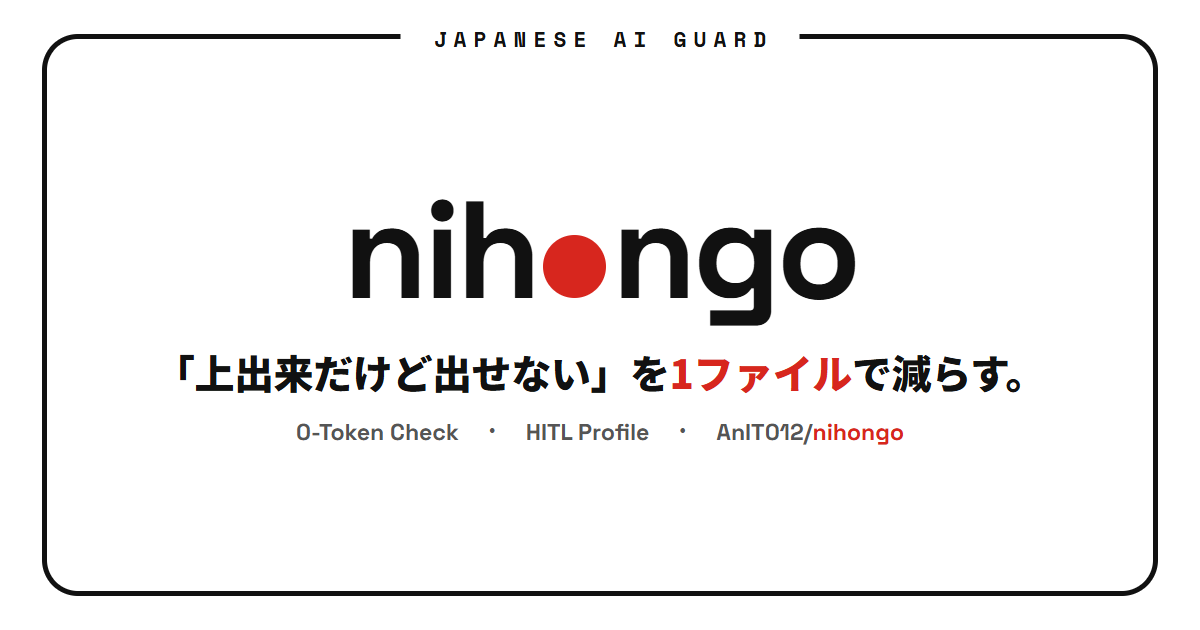
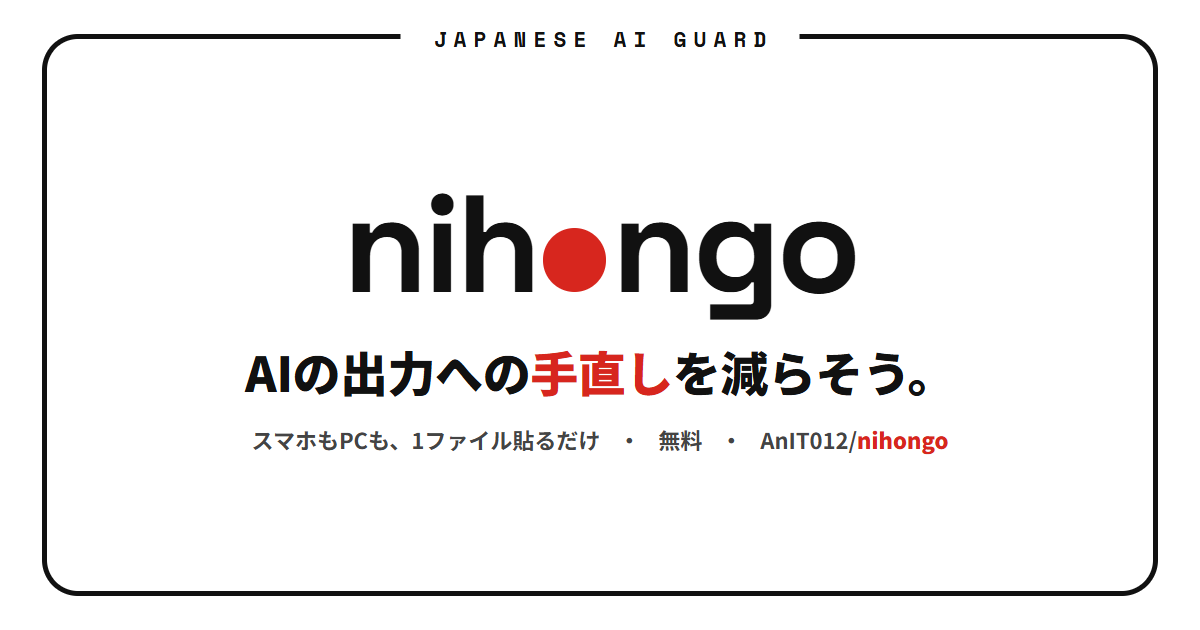
copy(site): update hero and OGP headline to natural Japanese copy

diff --git a/docs/index.html b/docs/index.html
@@ -7,7 +7,7 @@
 <meta name="description" content="AIの文章から「上出来だけど、そのままでは出せない」違和感を減らし、会話で直した癖を自分のルールとして残せる日本語ガード基盤。運営側サーバーにデータは保存しません。">
 <meta property="og:type" content="website">
 <meta property="og:title" content="nihongo — AI編集のための日本語ガード">
-<meta property="og:description" content="0トークンの意味ズレ検査、承認UIで育つ個人ルール、1ファイル導入。外部依存ゼロ・運営データ保存ゼロのオープンソース基盤。">
+<meta property="og:description" content="AIの出力への手直しを減らす日本語ガード。スマホもPCも1ファイル貼るだけで導入でき、外部依存ゼロ・運営データ保存ゼロで動作します。">
 <meta property="og:image" content="https://anit012.github.io/nihongo/ogp.png">
 <meta name="twitter:card" content="summary_large_image">
 <meta name="twitter:image" content="https://anit012.github.io/nihongo/ogp.png">
@@ -748,7 +748,7 @@ footer code b { color: var(--red); }
     <section class="hero-frame" aria-label="nihongo 概要">
       <div class="cut">JAPANESE AI GUARD</div>
       <div class="hero-logo" aria-hidden="true">nih<i></i>ngo</div>
-      <h1 class="hero-title">「上出来だけど出せない」を<span>1ファイル</span>で減らす。</h1>
+      <h1 class="hero-title">AIの出力への<span>手直し</span>を減らそう。</h1>
       <p class="hero-lead">
         AIの過剰な敬語や意味のズレを防ぎ、自分の書き方を残せる日本語ガード。
       </p>
